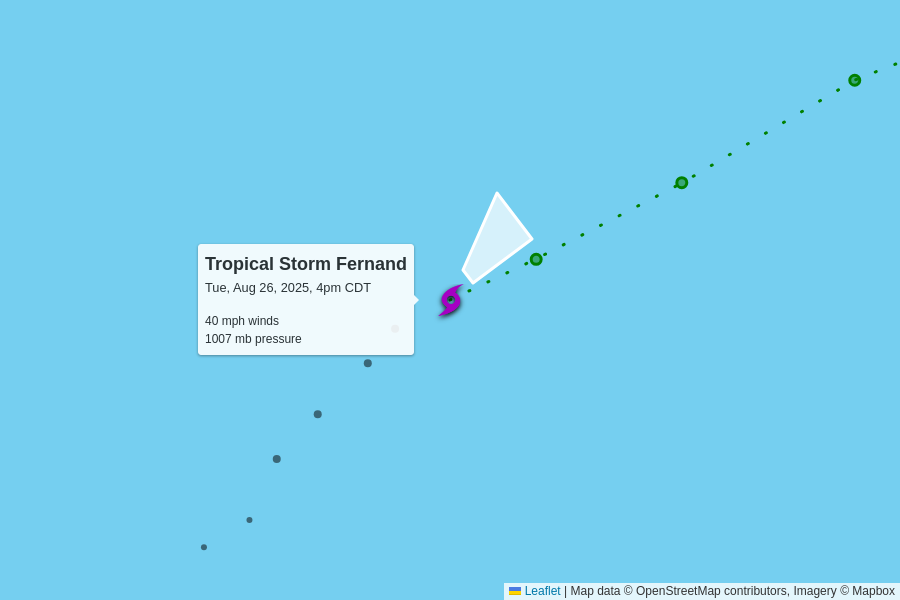
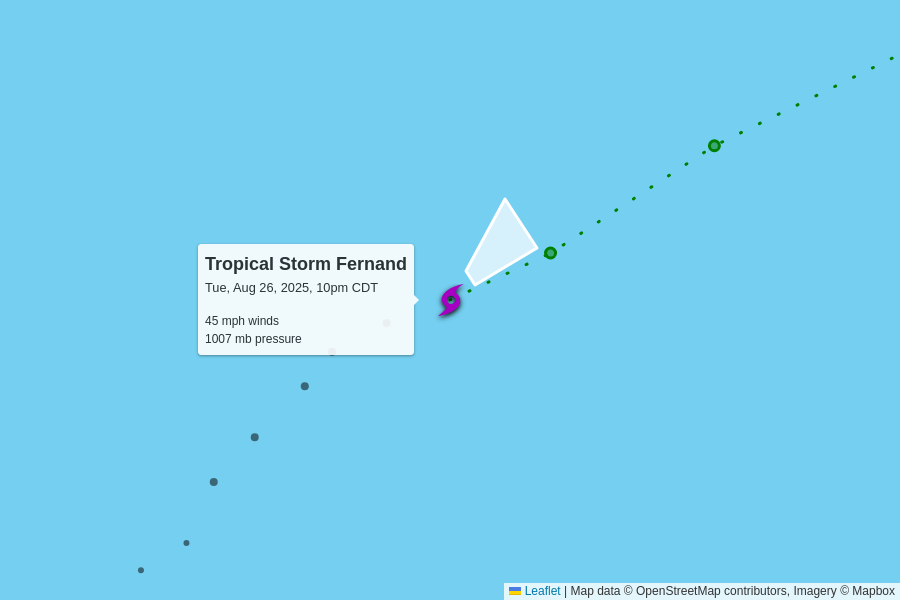
automatic update

diff --git a/docs/index.html b/docs/index.html
@@ -102,7 +102,7 @@
         <td colspan="6" class="storm category-0" >
           <h2>
             Tropical Storm Fernand
-            <p class="updated">last updated <span data-time>2025-08-26T21:00:00.000Z</span></p>
+            <p class="updated">last updated <span data-time>2025-08-27T03:00:00.000Z</span></p>
           </h2>
         </td>
       </tr>
@@ -117,12 +117,12 @@
       </tr>
       <tr>
         <td class="spacer"></td>
-        <td>40 mph<br>0 mph since last update</td>
+        <td>45 mph<br>+5 mph since last update</td>
         <td>1007 mb<br>0 mb since last update</td>
         <td>
           12 mph to the northeast
           <br/>
-          <span style="display: inline-block; font-size: 1.5em; transform: rotate(45deg);">↑</span>
+          <span style="display: inline-block; font-size: 1.5em; transform: rotate(50deg);">↑</span>
         </td>
         <td><a href="https://raw.githubusercontent.com/mgwalker/atlantic-hurricanes/main/data/csv/AL062025.csv">AL062025.csv</a></td>
         <td><a href="https://www.nhc.noaa.gov/archive/2025/FERNAND.shtml?">NHC advisories</a></td>
